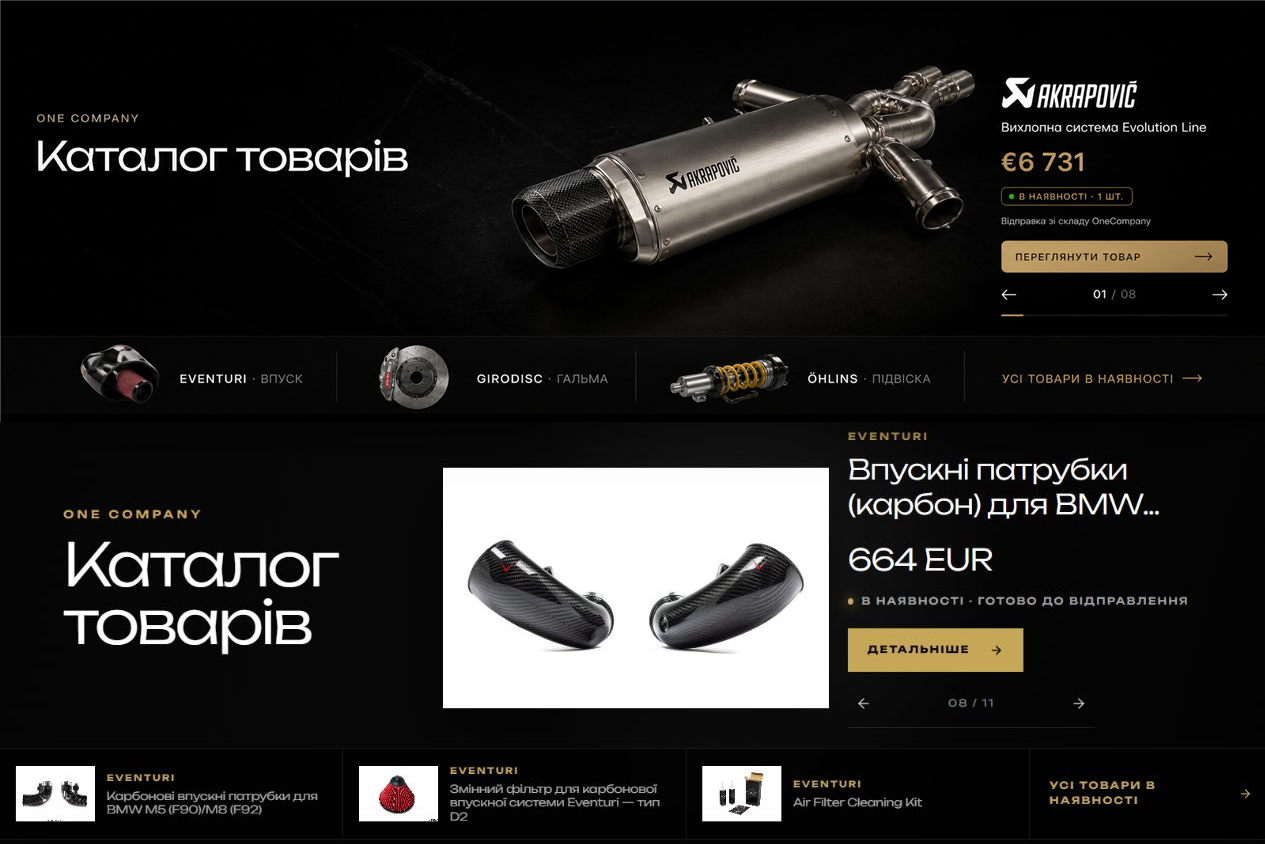
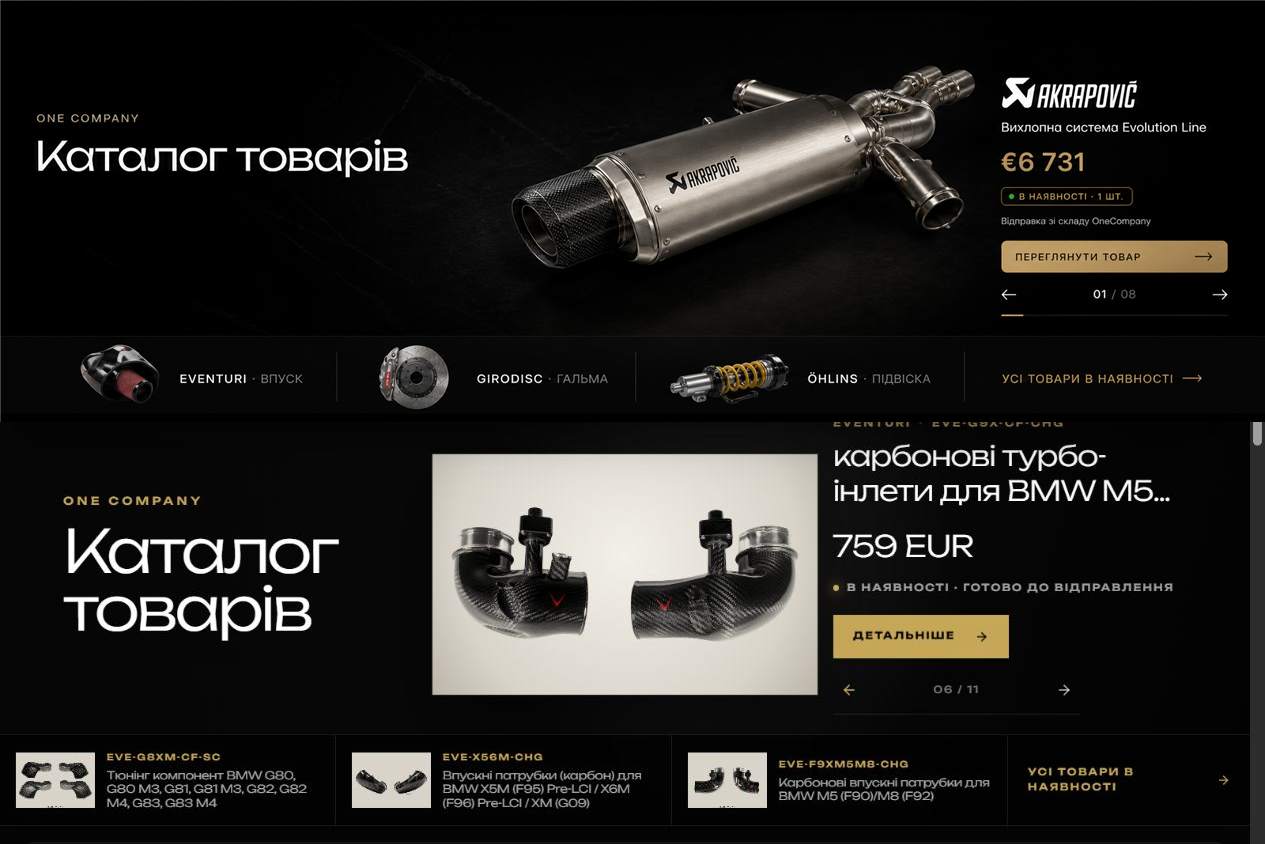
refactor(catalog): refine Eventuri inventory hero

diff --git a/src/app/[locale]/shop/stock/page.tsx b/src/app/[locale]/shop/stock/page.tsx
@@ -49,6 +49,7 @@ import { SHOP_CATALOG_OPEN_FILTERS_EVENT } from "@/lib/mobileBottomNavigation";
 import { EventuriAvailabilityBadge } from "@/components/shop/EventuriAvailabilityBadge";
 import { SHOW_STOCK_BADGE, shouldShowEventuriStockBadge } from "@/lib/shopStockUi";
 import { resolveShopStockSearchDelay } from "@/lib/shopStockSearchTiming";
+import { resolveShopWarehouseHeroImage } from "@/lib/shopWarehouseInventory";
 
 type StockItem = {
   id: string;
@@ -134,6 +135,14 @@ type StockSearchResponse = {
   };
   filterStats?: FilterStats;
   globalFilterStats?: FilterStats;
+};
+
+const getCatalogHeroProductTitle = (item: StockItem) => {
+  const name = item.name.trim();
+  const brand = item.brand.trim();
+  return brand && name.toLocaleLowerCase().startsWith(brand.toLocaleLowerCase())
+    ? name.slice(brand.length).trim()
+    : name;
 };
 
 const STOCK_LABELS: Record<StockFilter, { ua: string; en: string }> = {
@@ -2691,8 +2700,8 @@ function StockPageContent() {
                   transition={{ duration: 0.55, ease: [0.22, 1, 0.36, 1] }}
                   className="pointer-events-none absolute inset-x-[30%] bottom-[94px] top-8 hidden items-center justify-center lg:flex"
                 >
-                  <span className="relative block aspect-[16/10] w-full max-w-[390px] overflow-hidden bg-[#090909] shadow-[0_28px_60px_rgba(0,0,0,0.52)]">
-                    <Image src={activeHeroProduct.thumbnail!} alt="" fill unoptimized priority={heroProductIndex === 0} sizes="390px" className="object-cover object-center" />
+                  <span className="relative block aspect-[16/10] w-full max-w-[390px] overflow-hidden bg-[radial-gradient(circle_at_50%_42%,#f3f0e9_0%,#d8d4ca_72%,#bbb5a9_100%)] shadow-[0_28px_60px_rgba(0,0,0,0.52)] ring-1 ring-white/10">
+                    <Image src={resolveShopWarehouseHeroImage(activeHeroProduct.partNumber, activeHeroProduct.thumbnail)!} alt="" fill unoptimized priority={heroProductIndex === 0} sizes="390px" className="object-cover object-center mix-blend-multiply contrast-[1.04]" />
                   </span>
                 </motion.div>
                 <motion.div
@@ -2702,8 +2711,8 @@ function StockPageContent() {
                   transition={{ duration: 0.42 }}
                   className="relative z-20 mt-6 self-end lg:col-start-3 lg:mt-0 lg:self-center"
                 >
-                  <p className="text-[10px] font-semibold uppercase tracking-[0.24em] text-[#c6a657]">{activeHeroProduct.brand}</p>
-                  <h2 className="mt-2 line-clamp-2 max-w-[440px] text-xl font-light leading-tight tracking-[-0.025em] sm:text-2xl lg:text-[28px]">{activeHeroProduct.name}</h2>
+                  <p className="text-[10px] font-semibold uppercase tracking-[0.2em] text-[#c6a657]">{activeHeroProduct.brand}<span className="mx-2 text-white/20">·</span>{activeHeroProduct.partNumber}</p>
+                  <h2 className="mt-2 line-clamp-2 max-w-[440px] text-xl font-light leading-tight tracking-[-0.025em] sm:text-2xl lg:text-[28px]">{getCatalogHeroProductTitle(activeHeroProduct)}</h2>
                   <p className="mt-4 text-[26px] font-light tracking-[-0.025em] sm:text-[30px]">{formatItemPrice(activeHeroProduct)}</p>
                   <div className="mt-3 flex items-center gap-2 text-[10px] font-medium uppercase tracking-[0.17em] text-white/62">
                     <span className="h-1.5 w-1.5 rounded-full bg-[#c6a657] shadow-[0_0_12px_rgba(198,166,87,0.9)]" />
@@ -2726,8 +2735,8 @@ function StockPageContent() {
             <div className="flex min-w-0 flex-1 overflow-x-auto">
               {heroRailProducts.map(({ product, index }) => (
                 <button key={product.id} type="button" onClick={() => setHeroProductIndex(index)} className="group flex min-w-[190px] flex-1 items-center gap-3 border-r border-white/10 px-4 text-left transition hover:bg-white/[0.04] sm:min-w-[230px]">
-                  <span className="relative h-14 w-20 shrink-0 overflow-hidden bg-white/[0.035]"><Image src={product.thumbnail!} alt="" fill unoptimized sizes="80px" className="object-cover object-center" /></span>
-                  <span className="min-w-0"><span className="block text-[9px] font-semibold uppercase tracking-[0.18em] text-[#c6a657]">{product.brand}</span><span className="mt-1 line-clamp-2 block text-[11px] font-light leading-tight text-white/68 group-hover:text-white">{product.name}</span></span>
+                  <span className="relative h-14 w-20 shrink-0 overflow-hidden bg-[#d8d4ca]"><Image src={resolveShopWarehouseHeroImage(product.partNumber, product.thumbnail)!} alt="" fill unoptimized sizes="80px" className="object-cover object-center mix-blend-multiply contrast-[1.04]" /></span>
+                  <span className="min-w-0"><span className="block text-[9px] font-semibold uppercase tracking-[0.14em] text-[#c6a657]">{product.partNumber || product.brand}</span><span className="mt-1 line-clamp-2 block text-[11px] font-light leading-tight text-white/68 group-hover:text-white">{getCatalogHeroProductTitle(product)}</span></span>
                 </button>
               ))}
             </div>

diff --git a/tests/shop/unit/shopWarehouseInventory.test.ts b/tests/shop/unit/shopWarehouseInventory.test.ts
@@ -4,6 +4,7 @@ import assert from "node:assert/strict";
 import {
   getShopWarehouseStockStatus,
   isShopWarehouseInStockSku,
+  resolveShopWarehouseHeroImage,
   SHOP_WAREHOUSE_IN_STOCK_SKUS,
 } from "../../../src/lib/shopWarehouseInventory";
 
@@ -19,5 +20,9 @@ test("warehouse inventory matching is normalized but remains exact", () => {
   assert.equal(isShopWarehouseInStockSku("X167M-B40S-800-00"), false);
   assert.equal(getShopWarehouseStockStatus("EVE-FLC"), "inStock");
   assert.equal(getShopWarehouseStockStatus("EVE-UNKNOWN"), "preOrder");
+  assert.equal(
+    resolveShopWarehouseHeroImage("EVE-G9X-CF-CHG", "fallback.jpg"),
+    "/images/shop/eventuri/eve-g9x-cf-chg-hero.jpg"
+  );
+  assert.equal(resolveShopWarehouseHeroImage("EVE-FLC", "fallback.jpg"), "fallback.jpg");
 });
-

diff --git a/src/lib/shopWarehouseInventory.ts b/src/lib/shopWarehouseInventory.ts
@@ -17,8 +17,17 @@ const normalizeWarehouseSku = (value: string | null | undefined) =>
 
 const warehouseSkuSet = new Set<string>(SHOP_WAREHOUSE_IN_STOCK_SKUS);
 
+const warehouseHeroImageBySku: Readonly<Record<string, string>> = {
+  "EVE-G9X-CF-CHG": "/images/shop/eventuri/eve-g9x-cf-chg-hero.jpg",
+};
+
 export const isShopWarehouseInStockSku = (value: string | null | undefined) =>
   warehouseSkuSet.has(normalizeWarehouseSku(value));
 
 export const getShopWarehouseStockStatus = (value: string | null | undefined) =>
   isShopWarehouseInStockSku(value) ? ("inStock" as const) : ("preOrder" as const);
+
+export const resolveShopWarehouseHeroImage = (
+  sku: string | null | undefined,
+  fallback: string | null
+) => warehouseHeroImageBySku[normalizeWarehouseSku(sku)] ?? fallback;

diff --git a/design-qa.md b/design-qa.md
@@ -28,6 +28,7 @@ No actionable P0, P1, or P2 differences remain.
 3. Initial comparison found a P2 image-delivery issue for external product thumbnails routed through the optimizer. Fixed by rendering hero and rail catalog thumbnails unoptimized so their source URLs load reliably. Post-fix evidence: the Akrapovič main image and all three rail thumbnails render in `implementation-hero-final.png`.
 4. Follow-up comparison found a P2 consistency issue: source images with different aspect ratios produced visibly different subject sizes and white square thumbnails. Fixed by standardizing the main media stage at 16:10 with a 390 px maximum width and `object-cover`, and every rail thumbnail at 80 × 56 px with the same crop behavior. Akrapovič, Brabus, Öhlins, and the confirmed Eventuri warehouse states were switched manually and checked after the fix. Post-fix evidence: `implementation-hero-final.png` and the lower half of `design-qa-comparison.png`.
 5. Inventory validation found a P0 content-trust issue: the premium adapter hardcoded every product as in stock. Fixed with one exact, normalized eleven-SKU Eventuri inventory source shared by both catalog readers. Duplicate catalog records are deduplicated by SKU in the hero. The rendered counter now shows 11 items, and Brabus, Öhlins, ADRO, Urban Automotive, and unrelated Eventuri SKUs are excluded.
+6. Eventuri-only review found a P2 art-direction issue: white supplier images looked like unrelated rectangles on the black hero and the product name repeated the brand. Fixed with a consistent warm-neutral media stage, multiply blending for white-background catalog photography, SKU-forward eyebrow copy, and brand-stripped product titles. `EVE-G9X-CF-CHG` now uses a verified higher-resolution photograph of the exact two-part G90/G99 M5 inlet set.
 
 ## Primary interactions tested
 
